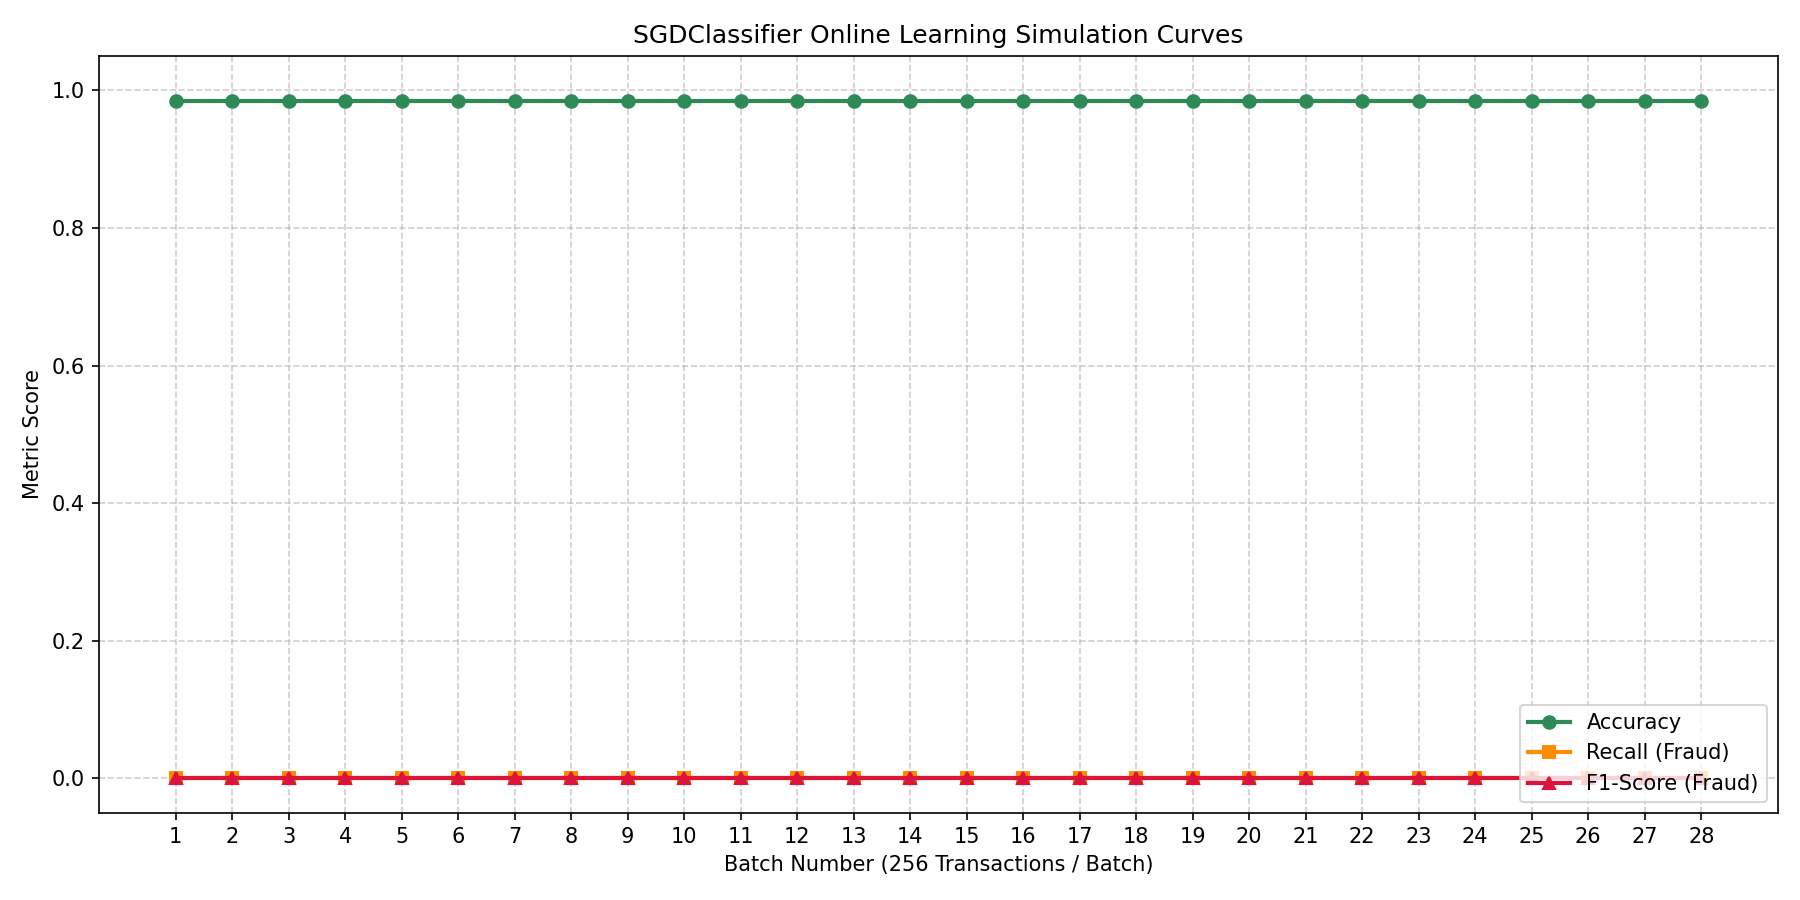
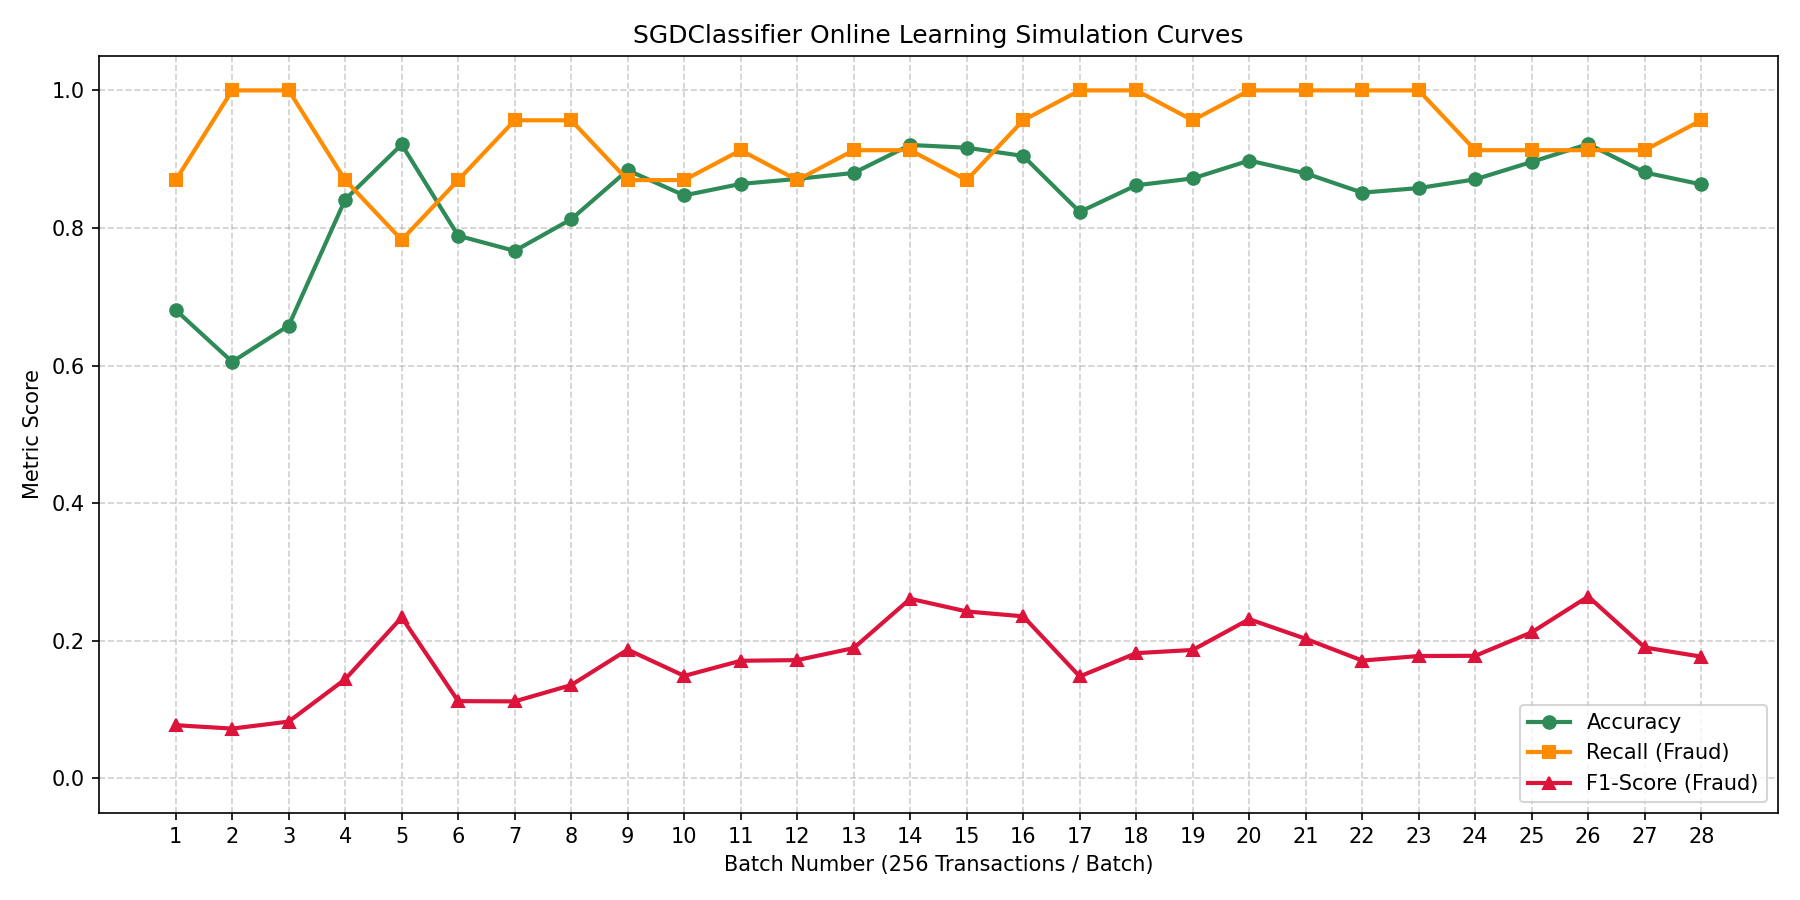
Fix class imbalance in streaming SGDClassifier by pre-computing balanced class weights

diff --git a/project2_financial_fraud_detection/generate_nb3.py b/project2_financial_fraud_detection/generate_nb3.py
@@ -224,9 +224,15 @@ notebook = {
    "outputs": [],
    "source": [
     "from sklearn.metrics import accuracy_score, f1_score, recall_score\n",
+    "from sklearn.utils.class_weight import compute_class_weight\n",
+    "\n",
+    "classes = np.array([0, 1])\n",
+    "weights = compute_class_weight('balanced', classes=classes, y=y_train)\n",
+    "class_weight_dict = {0: weights[0], 1: weights[1]}\n",
+    "print(f\"Computed balanced class weights: {class_weight_dict}\")\n",
     "\n",
     "print(\"Initializing SGDClassifier for incremental streaming simulation...\")\n",
-    "sgd_clf = SGDClassifier(loss='log_loss', random_state=42, learning_rate='constant', eta0=0.01)\n",
+    "sgd_clf = SGDClassifier(loss='log_loss', class_weight=class_weight_dict, random_state=42, learning_rate='constant', eta0=0.01)\n",
     "\n",
     "batch_size = 256\n",
     "n_samples = X_train.shape[0]\n",